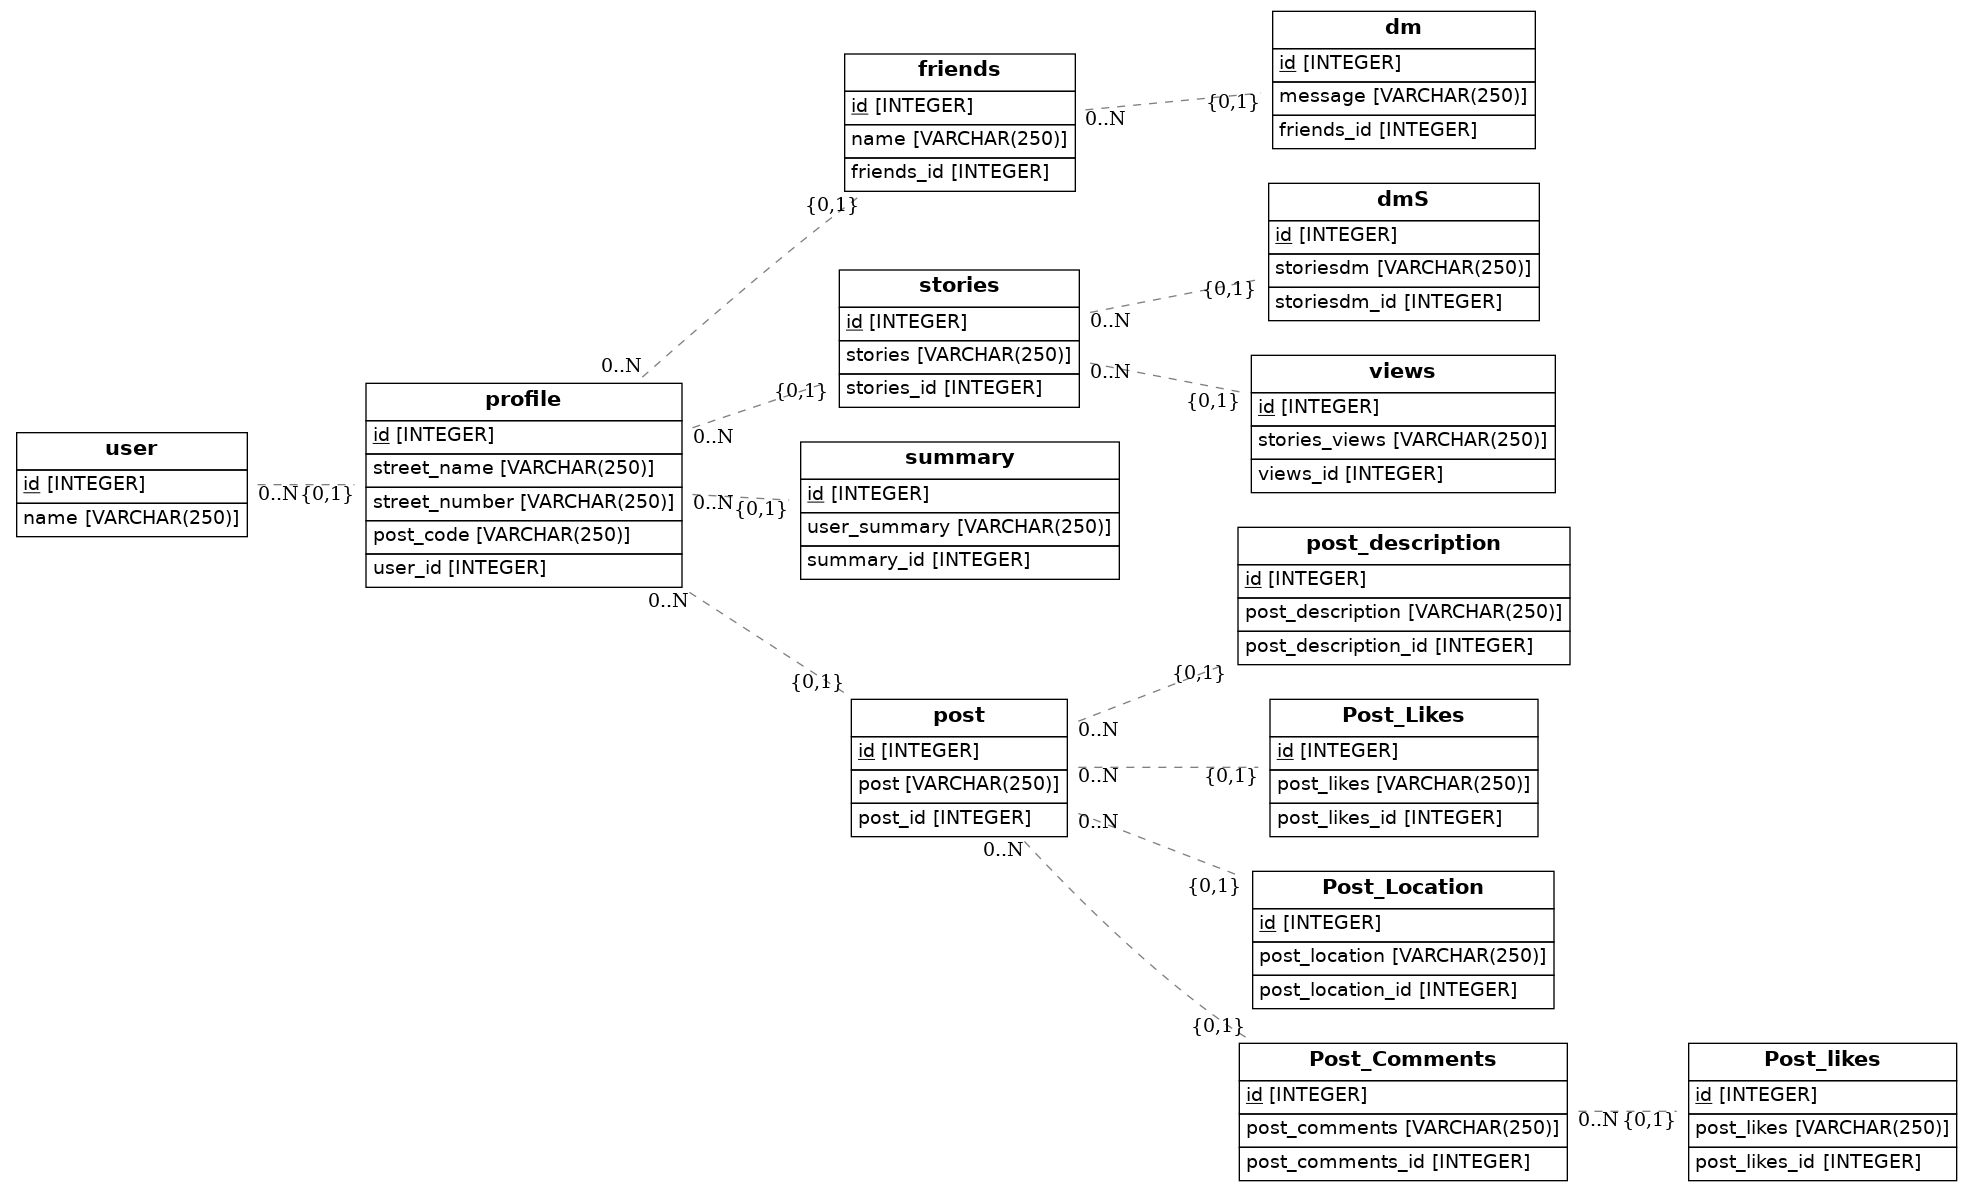
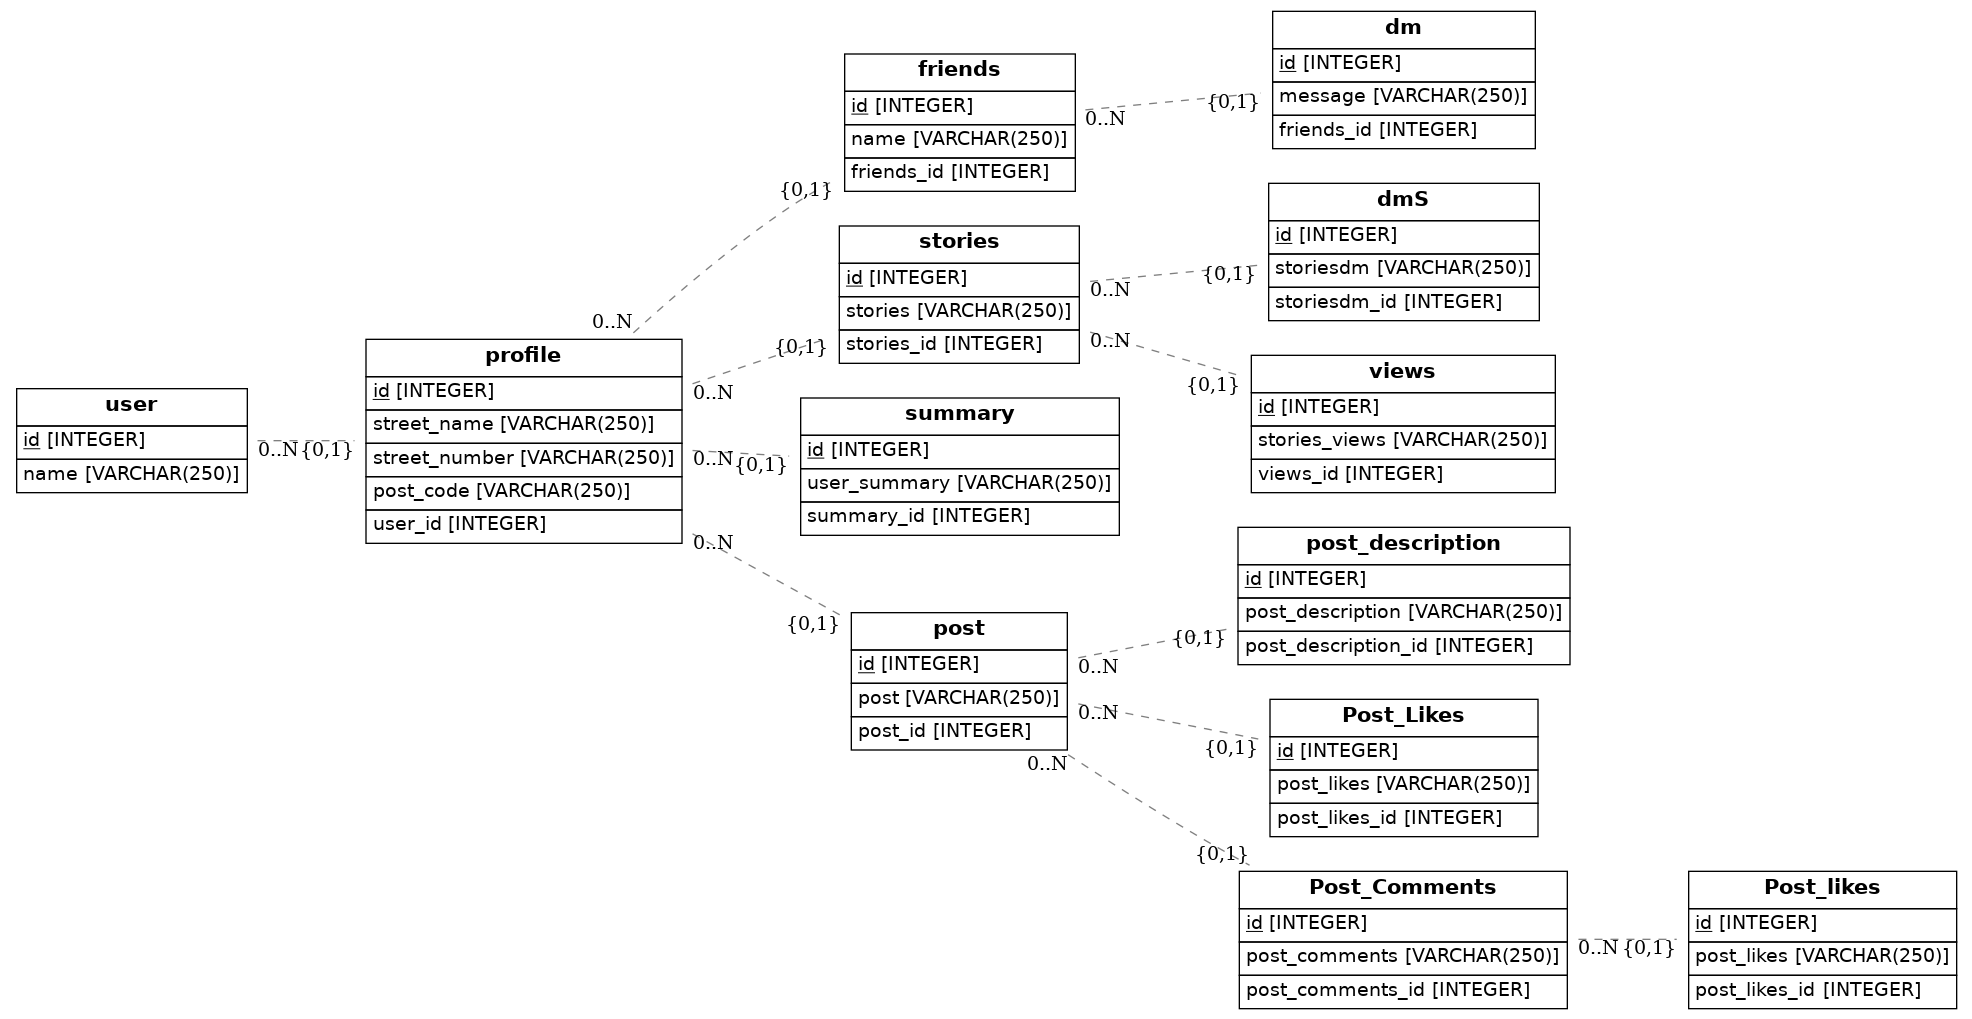
cambios en diagrama

diff --git a/src/models.py b/src/models.py
@@ -99,14 +99,6 @@ class Post_Likes(Base):
     post_likes = Column(String(250))
     post_likes_id = Column(Integer, ForeignKey('post.id'))
 
-class Location(Base):
-    __tablename__ = 'Post_Location'
-    # Here we define columns for the table address.
-    # Notice that each column is also a normal Python instance attribute.
-    id = Column(Integer, primary_key=True)
-    post_location = Column(String(250))
-    post_location_id = Column(Integer, ForeignKey('post.id'))
-
 class Comments(Base):
     __tablename__ = 'Post_Comments'
     # Here we define columns for the table address.
